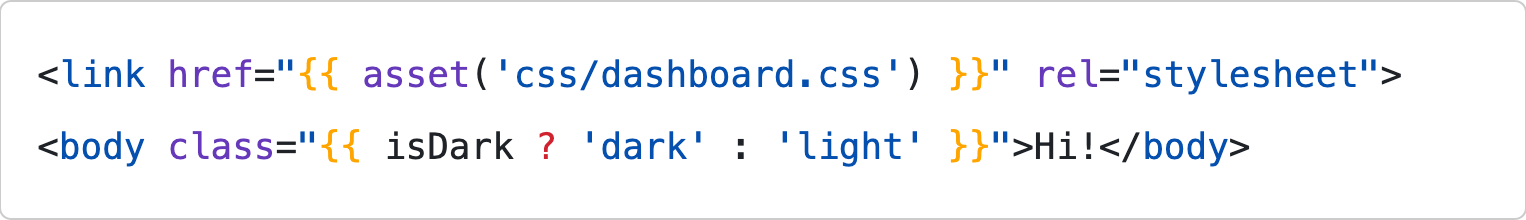
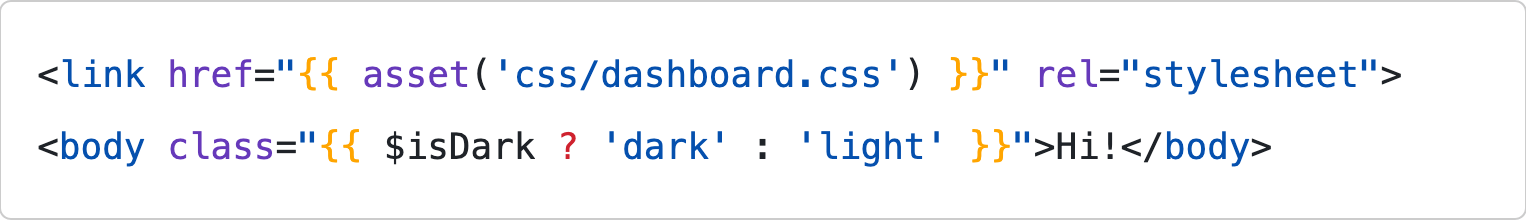
Fix typo in README

Changed region(s): [[0.2464, 0.5727, 0.8316, 0.7636]]

diff --git a/docs/README.md b/docs/README.md
@@ -35,7 +35,7 @@ Your favorite color is {{ Auth::user()->getFavorite('color') }}.
 
 ```blade
 <link href="{{ asset('css/dashboard.css') }}" rel="stylesheet">
-<body class="{{ isDark ? 'dark' : 'light' }}">Hi!</body>
+<body class="{{ $isDark ? 'dark' : 'light' }}">Hi!</body>
 ```
 
 #### Unscaped interpolation
